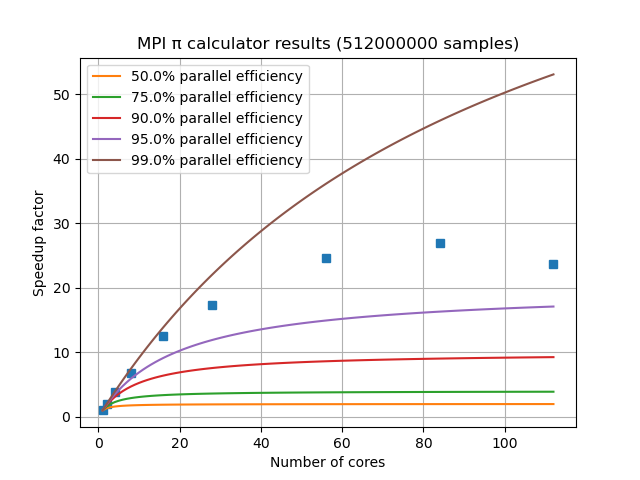
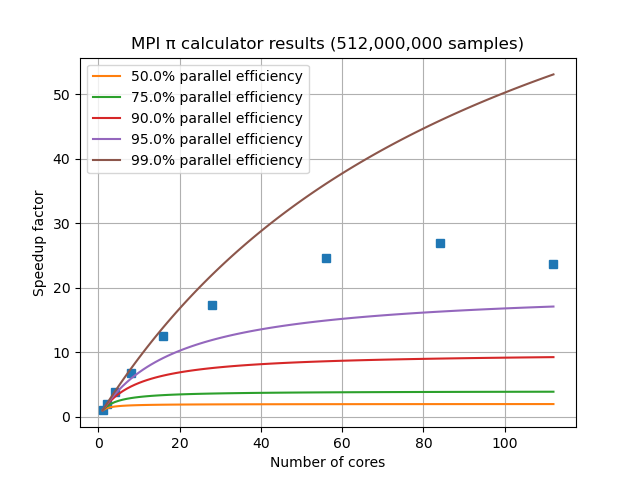
Adding speedup plots and locale-specific titles

Changed region(s): [[0.1875, 0.0625, 0.8125, 0.125]]

diff --git a/files/pi-plot-parallel-results.py b/files/pi-plot-parallel-results.py
@@ -3,6 +3,7 @@
 import numpy as np
 import matplotlib.pyplot as plt
 import sys
+import locale
 
 try:
     parallel_file = sys.argv[1]
@@ -16,6 +17,8 @@ except IndexError:
     print("you did not specify a serial timing file")
     print("Usage: {} parallel_file serial_file".format(sys.argv[0]))
     sys.exit(1)
+
+locale.setlocale(locale.LC_ALL, "")
 
 data = np.genfromtxt(parallel_file, delimiter=',')
 cores = data[:, 0]
@@ -42,7 +45,7 @@ for label in plot_dict:
     plt.plot(cores, value, 's')
     plt.xlabel('Number of cores')
     plt.ylabel(label)
-    plt.title('MPI π calculator results ({:d} samples)'.format(int(n_samples)))
+    plt.title('MPI π calculator results ({:n} samples)'.format(int(n_samples)))
     if (label == 'Speedup factor'):
         for proportion in [0.5, 0.75, 0.9, 0.95, 0.99]:
             amdahl_cores = np.arange(cores.max())+1
